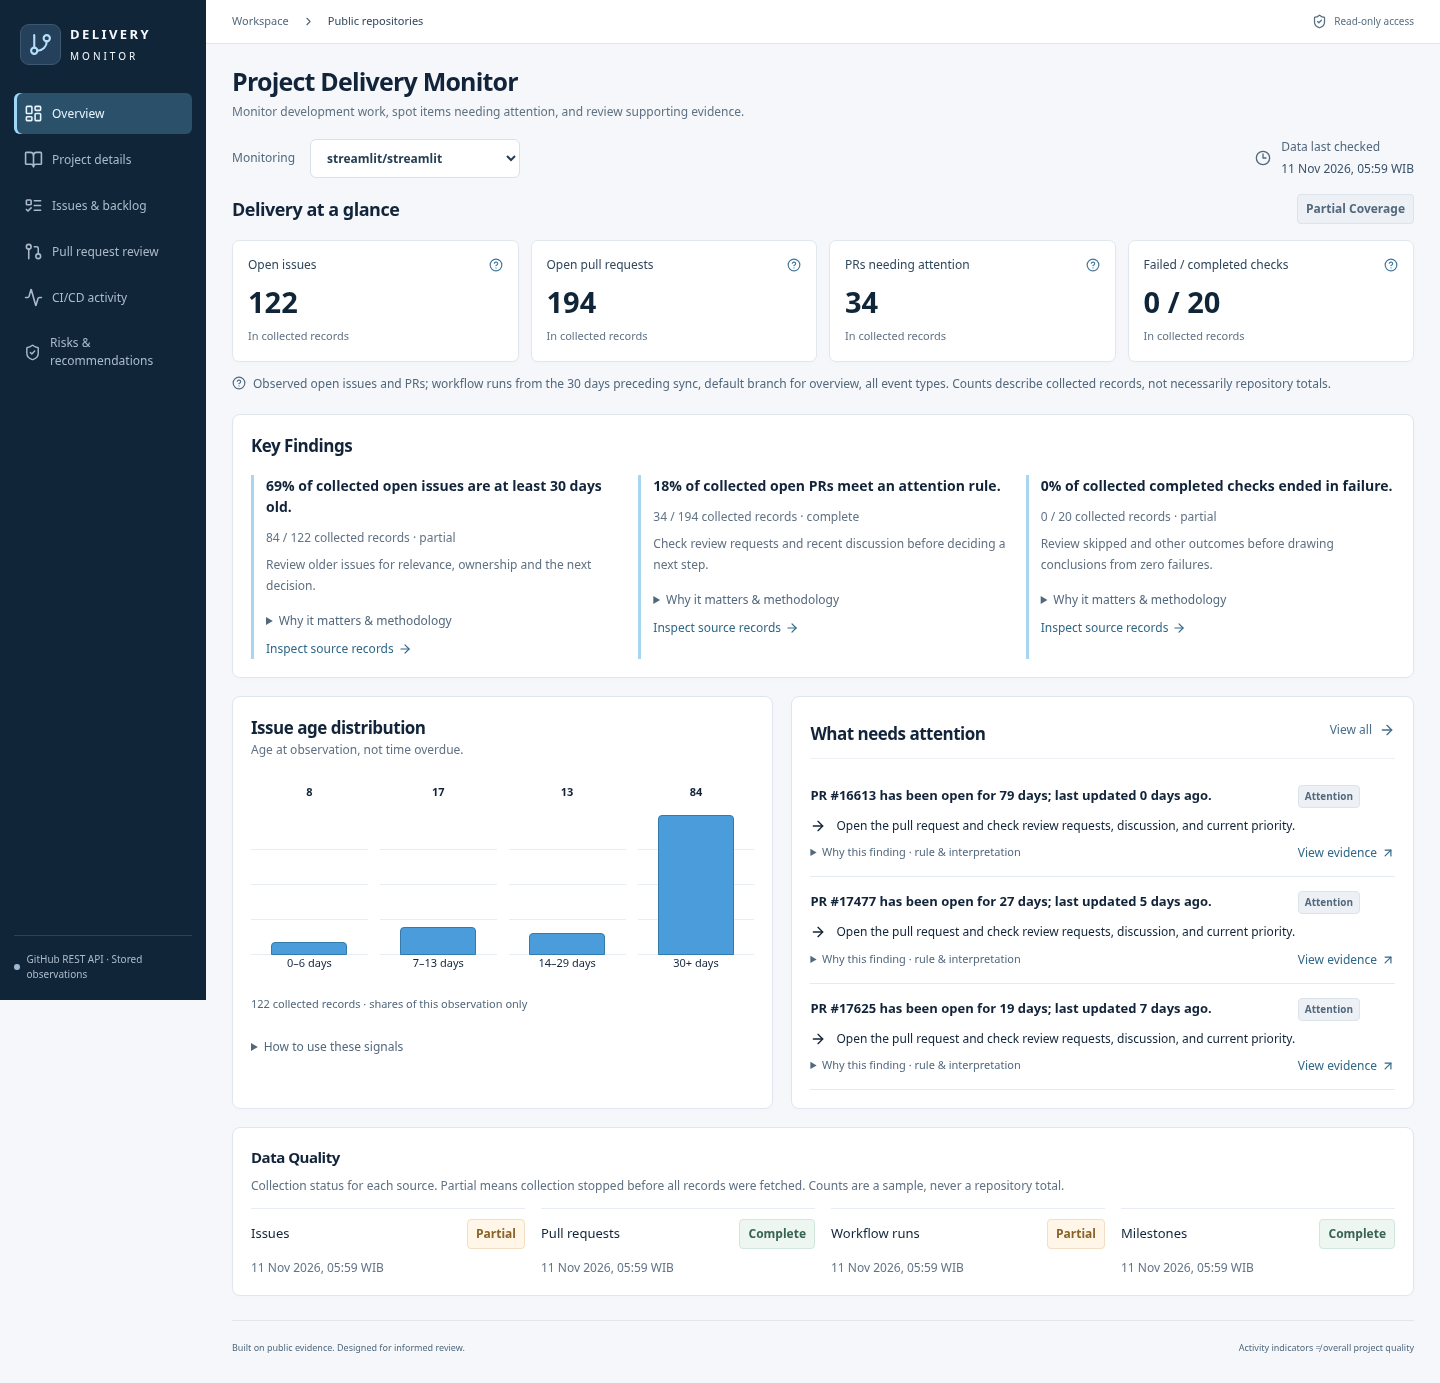
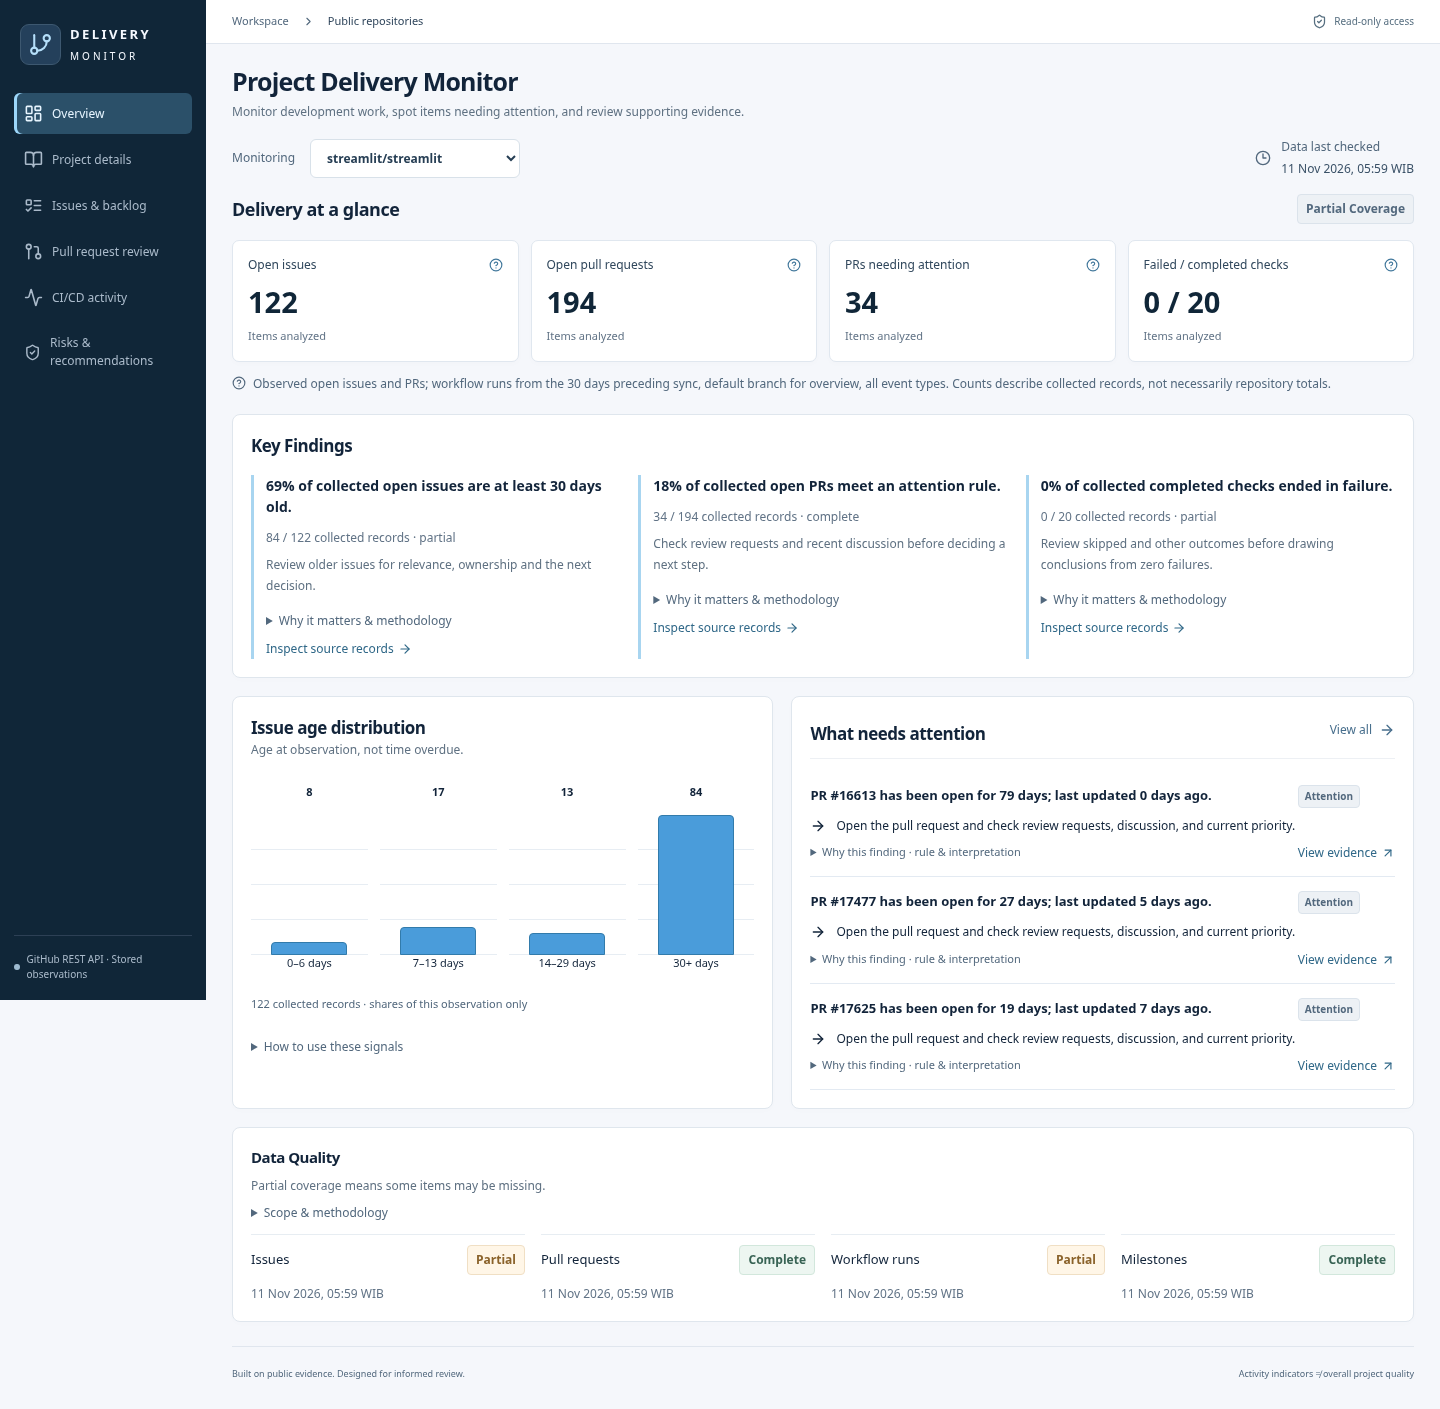
Add page-level analytical summaries and compact source disclosures

diff --git a/frontend/src/App.tsx b/frontend/src/App.tsx
@@ -128,9 +128,7 @@ export function Metric({
         </span>
       </div>
       <strong>{value ?? "—"}</strong>
-      <small>
-        {value == null ? "Data unavailable" : "In collected records"}
-      </small>
+      <small>{value == null ? "Data unavailable" : "Items analyzed"}</small>
     </article>
   );
 }
@@ -643,11 +641,16 @@ function CoveragePanel({ info }: { info: Overview }) {
     <section className="panel coverage-panel">
       <div>
         <h2>Data Quality</h2>
-        <p>
-          Collection status for each source. Partial means collection stopped
-          before all records were fetched. Counts are a sample, never a
-          repository total.
-        </p>
+        <p>Partial coverage means some items may be missing.</p>
+        <details>
+          <summary>Scope & methodology</summary>
+          <p>
+            Each source has its own timestamp. Partial counts describe items
+            analyzed, not the full repository. Retained data was not refreshed
+            successfully. Activity alone does not establish delivery
+            performance.
+          </p>
+        </details>
       </div>
       <div className="coverage-grid">
         {[
@@ -729,6 +732,48 @@ function Details({ info }: { info: Overview }) {
         {info.project.html_url && (
           <Evidence url={info.project.html_url}>Open repository</Evidence>
         )}
+      </div>
+      <div className="metrics detail-summary">
+        <Metric
+          label="Sources available"
+          value={
+            Object.keys(info.coverage).length
+              ? Object.entries(info.coverage).filter(
+                  ([key, c]) =>
+                    key !== "repository" && c.coverage !== "unavailable",
+                ).length
+              : null
+          }
+          help="Issue, pull request, workflow and milestone sources with stored observations."
+        />
+        <Metric
+          label="Saved observations"
+          value={trends.data?.points.length}
+          help="Snapshots available in the history response; not necessarily comparable."
+        />
+        <Metric
+          label="Milestones analyzed"
+          value={
+            milestoneSource.data?.coverage === "unavailable"
+              ? null
+              : milestoneSource.data?.total_in_observation
+          }
+          help="All milestones in the stored observation, before your filters."
+        />
+      </div>
+      <div className="page-insight">
+        <strong>
+          {info.observed_at
+            ? "Source coverage determines which comparisons are meaningful."
+            : "No source observation is available yet."}
+        </strong>
+        <details>
+          <summary>How to review this project</summary>
+          <p>
+            Check source coverage before comparing snapshots; different samples
+            can change counts without a real change in activity.
+          </p>
+        </details>
       </div>
       <div className="panel details-grid">
         <div>
@@ -944,6 +989,24 @@ function Details({ info }: { info: Overview }) {
     </>
   );
 }
+function PageInsight({ info, source }: { info: Overview; source: string }) {
+  const finding = keyFindings(info).find((f) => f.source === source);
+  return (
+    <div className="page-insight">
+      <strong>
+        {finding?.title ?? "Insufficient data for a quantitative summary."}
+      </strong>
+      {finding && (
+        <details>
+          <summary>Meaning & suggested review</summary>
+          <p>{finding.meaning}</p>
+          <p>{finding.action}</p>
+          <small>{finding.sample}</small>
+        </details>
+      )}
+    </div>
+  );
+}
 function Records({
   info,
   kind,
@@ -1015,6 +1078,7 @@ function Records({
           />
         </div>
       )}
+      <PageInsight info={info} source={kind} />
       {kind === "issues" && info.metrics?.issue_age_bins && (
         <div className="age-bins">
           {Object.entries(info.metrics.issue_age_bins).map(([bin, count]) => (
@@ -1039,9 +1103,9 @@ function Records({
               help="Failures among those completed checks; not production incidents."
             />
             <Metric
-              label="Successful checks"
-              value={info.metrics.ci_conclusions.success ?? 0}
-              help="Only the success conclusion in the same collected window."
+              label="Skipped checks"
+              value={info.metrics.ci_conclusions.skipped ?? 0}
+              help="Checks with the skipped conclusion in this same window; not successes or failures."
             />
             <Metric
               label="Success share"
@@ -1164,7 +1228,16 @@ function Records({
                       {rows.data.items.map((r) => (
                         <tr key={r.github_id}>
                           <td data-label="Title / source">
-                            <strong>{r.title ?? r.name}</strong>
+                            {(r.title ?? r.name ?? "").length > 90 ? (
+                              <details className="record-title">
+                                <summary>
+                                  {(r.title ?? r.name ?? "").slice(0, 87)}…
+                                </summary>
+                                <strong>{r.title ?? r.name}</strong>
+                              </details>
+                            ) : (
+                              <strong>{r.title ?? r.name}</strong>
+                            )}
                             <small>
                               {r.number ? `#${r.number}` : `Run ${r.github_id}`}
                             </small>
@@ -1334,6 +1407,21 @@ function Risks({ info }: { info: Overview }) {
           )}
         </div>
       )}
+      <div className="page-insight">
+        <strong>
+          {brief.data
+            ? `${brief.data.findings.length} rule-based findings are available for review; they are not confirmed business risks.`
+            : "Findings require a verified observation."}
+        </strong>
+        <details>
+          <summary>How to prioritize review</summary>
+          <p>
+            Filter by the existing rule type, inspect the source, and confirm
+            ownership or the next action. Attention is a review signal; no new
+            High/Medium/Low scale is inferred.
+          </p>
+        </details>
+      </div>
       <div className="brief-intro">
         <div>
           <span className="eyebrow">PROJECT INTELLIGENCE BRIEF</span>

diff --git a/frontend/src/style.css b/frontend/src/style.css
@@ -1937,3 +1937,37 @@ td:first-child {
     grid-template-columns: 1fr;
   }
 }
+.page-insight {
+  margin: 16px 0 20px;
+  padding: 14px 16px;
+  background: #edf5fb;
+  border-left: 3px solid #78b4dc;
+  border-radius: 4px;
+  font-size: 13px;
+}
+.page-insight details {
+  margin-top: 8px;
+}
+.page-insight p {
+  font-size: 12px;
+}
+.detail-summary {
+  grid-template-columns: repeat(3, minmax(0, 1fr));
+  margin-bottom: 16px;
+}
+.record-title {
+  margin: 0;
+  color: #21354a;
+  font-size: 12px;
+}
+.record-title strong {
+  margin-top: 8px;
+}
+.coverage-panel details {
+  margin-top: 8px;
+}
+@media (max-width: 700px) {
+  .detail-summary {
+    grid-template-columns: 1fr 1fr;
+  }
+}

diff --git a/frontend/e2e/live.spec.ts b/frontend/e2e/live.spec.ts
@@ -38,6 +38,12 @@ test("live GitHub observations match the rendered dashboard for all projects", a
     ).json();
     expect(issues.items.length).toBeGreaterThan(0);
     await page.locator('nav a[href^="/issues"]').click();
+    await expect(page.locator("tbody tr").first()).toBeVisible();
+    const titleDetails = page
+      .locator("tbody tr")
+      .first()
+      .locator(".record-title summary");
+    if (await titleDetails.count()) await titleDetails.click();
     await expect(
       page.getByText(issues.items[0].title!, { exact: true }),
     ).toBeVisible();

diff --git a/frontend/src/App.test.tsx b/frontend/src/App.test.tsx
@@ -12,7 +12,7 @@ describe("Honest evidence presentation", () => {
     expect(screen.queryByText("0")).not.toBeInTheDocument();
     rerender(<Metric label="Open issues" value={0} help="Collected scope" />);
     expect(screen.getByText("0")).toBeInTheDocument();
-    expect(screen.getByText("In collected records")).toBeInTheDocument();
+    expect(screen.getByText("Items analyzed")).toBeInTheDocument();
   });
   it("rejects unsafe evidence links", () => {
     render(<Evidence url="https://github.com.evil.test/a" />);

diff --git a/docs/ANALYSIS_UI.md b/docs/ANALYSIS_UI.md
@@ -1,0 +1,14 @@
+# Analyst-style readability refinement
+
+Continues 4bafc25. Backend, raw observations, analysis rules and collector unchanged.
+
+- Details adds available-source, saved-observation and milestone cards plus a comparability explanation.
+- Issues keeps four age-group summaries and adds a scoped quantitative insight. PR retains open/draft/attention cards with the same deterministic insight definition as Overview.
+- CI cards show completed, failed, skipped and success share; success counts remain in the conclusion distribution. Its insight explains the default-branch 30-day denominator and zero-failure limits.
+- Risks retains actual severity counts and adds a clear review summary. No fabricated High/Medium/Low levels. Existing actions/evidence and expandable explanations remain.
+- Data Quality now has one short explanation with methodology expandable. KPI supporting label is Items analyzed. Titles longer than 90 characters have an expandable full original title; labels remain expandable. Ten-row paging, filters, exports and source evidence are preserved.
+- Overview Key Findings unchanged. Details has no decorative chart because snapshot coverage is not comparable. Risks has no decorative severity chart.
+
+Validation: build, lint and 11 unit tests passed. Browser regression covers all six routes at desktop/mobile, source records, filters, paging, export and automated accessibility. Long-title test now opens disclosure before checking exact original text. Twelve actual screenshots are in screenshots/analysis-ui; standalone gallery at /workspace/pdm-analysis-ui/gallery.html.
+
+Limitations: source-level analysis scopes remain partial where labeled; no new GitHub fetch. Existing recommendations remain rule-authored rather than inventing personalized actions. Scheduler and closed/merged record analyses from earlier requests remain outstanding. No push/deployment.
